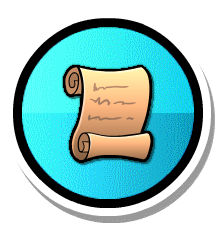
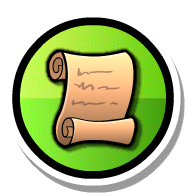
updated mod to 1.1.0

diff --git a/src/main.cpp b/src/main.cpp
@@ -23,13 +23,12 @@ class $modify(InfoLayerMy, LevelInfoLayer) {
 			buttonSpr, this, menu_selector(InfoLayerMy::onButton)
 		);
 
-		button->setZOrder(2);
-		button->setPosition(760, 11);
-		auto menu = CCMenu::create();
-		menu->addChild(button);
-		menu->setPosition(-165, 235.5);
-		menu->setScale(0.675);
-		this->addChild(menu);
+		if(auto menu = this->getChildByID("left-side-menu")) {
+			if (Mod::get()->getSettingValue<bool>("active"))
+				menu->addChild(button);
+				menu->updateLayout();
+		}
+
 		return true;
 	} 
 };

diff --git a/changelog.md b/changelog.md
@@ -1,3 +1,9 @@
+# v1.1.0
+
+* Changed location of the button to the left side menu.
+* Added a setting for if you want to disable the mod.
+* Changed the sprite a bit.
+
 # v1.0.0
 
  * Initial release.
